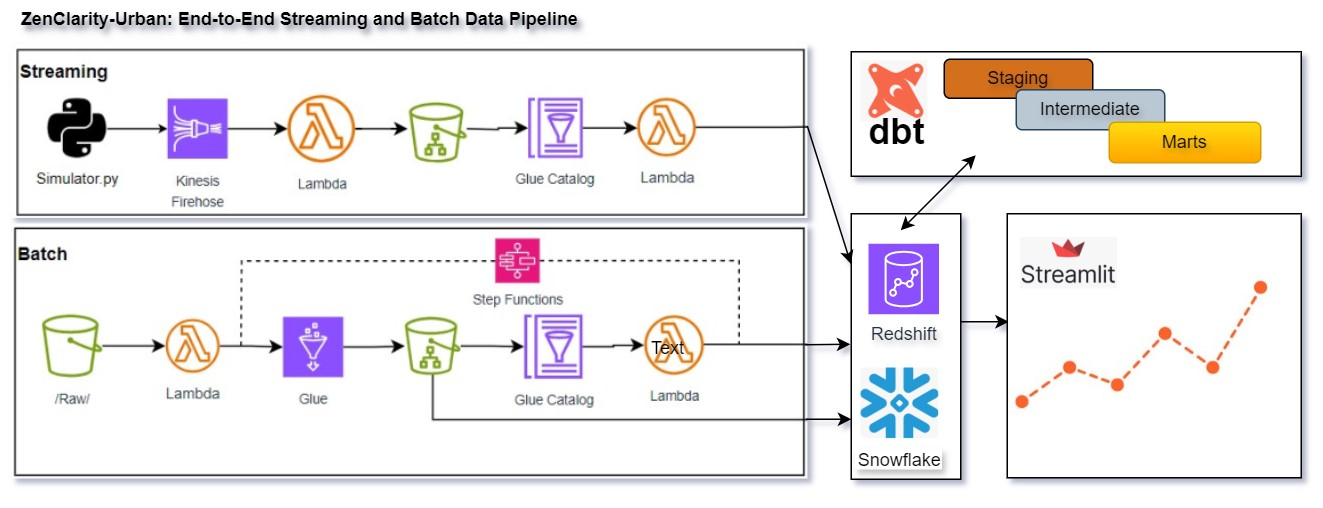
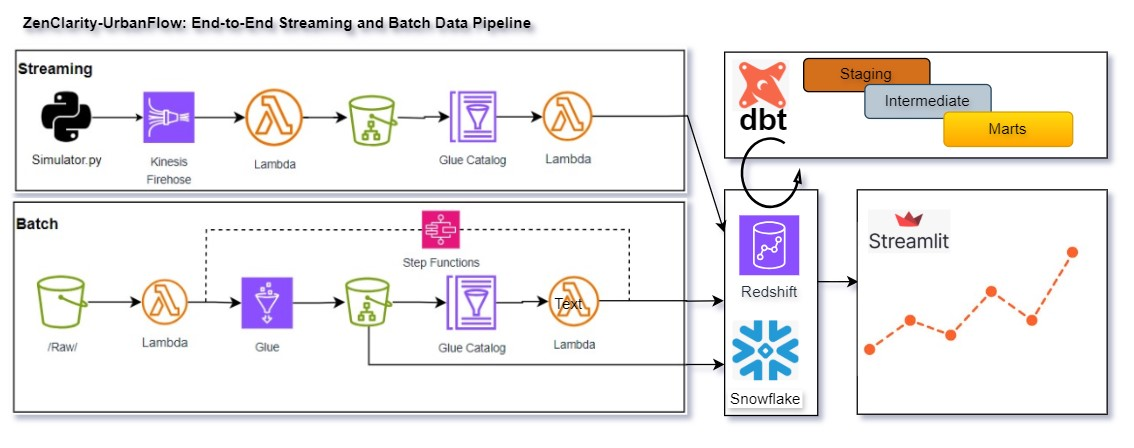
Update README.md with project details and benchmarking info

Changed region(s): [[0.0, 0.0, 0.9877, 0.9688]]

diff --git a/README.md b/README.md
@@ -1,13 +1,13 @@
 # 🌆 ZenClarity-UrbanFlow — NYC Taxi Data Engineering Project
 
-**ZenClarity-UrbanFlow reflects my approach to data engineering: clarity, scalability, and modern cloud practices.**  
-Built with AWS, dbt, Redshift, and Snowflake, it showcases both batch and streaming pipelines, automated orchestration, and a real-time analytics dashboard.
+**A modern, cloud-native data engineering platform that ingests NYC Taxi data via streaming and batch pipelines, transforms it with dbt, and delivers analytics in Redshift, Snowflake, and Streamlit.**  
+ZenClarity-UrbanFlow demonstrates best practices in clarity, scalability, and modern cloud data engineering. It highlights near real-time ingestion, reproducible transformations, and cross-engine benchmarking to evaluate performance and cost-efficiency across **data warehouse engines**.
 
-- 🚖 **Pipelines**: Real-time streaming (Kinesis) + batch ingestion (Glue)  
-- 📦 **Warehousing**: Redshift Serverless & Snowflake  
-- 📊 **Modeling**: dbt (staging → intermediate → marts)  
-- ⚡ **Benchmarks**: Redshift vs Snowflake performance  
-- 📈 **Visualization**: Streamlit dashboard (screenshots included)  
+- 🚖 **Pipelines**: Real-time streaming via Kinesis + scheduled batch ingestion with AWS Glue  
+- 🗄 **Data Warehousing Engines**: Redshift Serverless and Snowflake, supporting analytics and benchmarking  
+- 📊 **Modeling**: dbt with layered structure (staging → intermediate → marts)  
+- ⚡ **Benchmarks**: Comparative performance tests across Redshift and Snowflake  
+- 📈 **Visualization**: Streamlit dashboard delivering KPIs and real-time vs. baseline insights  
 
 ---
 
@@ -37,10 +37,10 @@ Built with AWS, dbt, Redshift, and Snowflake, it showcases both batch and stream
 ## 📂 Repo Structure 
 
 ZenClarity-UrbanFlow/  
-├── analytics/          # notebooks + Streamlit app (screenshots archived)  
+├── analytics/          # QuickSight & Streamlit app (screenshots archived)  
 ├── config/             # sample env/config snippets  
 ├── dbt/                # dbt models (staging → intermediate → marts)  
-├── docs/               # diagrams, metrics, planning notes  
+├── docs/               # diagrams, metrics, WBS planning notes  
 ├── infrastructure/     # EMR, Glue, Redshift, Snowflake configs  
 ├── scripts/            # ETL code (batch, streaming, emr_jobs, helpers)  
 └── venv/               # local virtualenv (ignored in git)  
@@ -49,12 +49,13 @@ ZenClarity-UrbanFlow/
 
 ## 📈 Data Models & dbt
 
-This project follows a **multi-layered dbt modeling pattern**:
+This project follows a **multi-layered dbt modeling pattern**, a best practice for building analytics code that is both maintainable and scalable. This approach ensures data quality, consistency, and reusability across the entire pipeline.
+
 - **Staging**: cleans raw data, enforces schema.  
 - **Intermediate**: joins + transformations for readability/efficiency.  
 - **Marts**: business-defined entities for analytics (facts & dims).  
 
-📑 **Documentation & lineage**:  
+📑 **Documentation & lineage**:  The entire dbt project is documented and includes a full lineage graph, showcasing the flow of data from source to dashboard
 [View dbt Project Documentation (S3 Hosted)](http://nle-dbt-docs.s3-website-us-east-1.amazonaws.com/#!/overview)
 
 ---
@@ -74,7 +75,7 @@ Results highlight performance trade-offs between Redshift and Snowflake under eq
 
 ## 📈 Dashboard KPIs (Streamlit)
 
-* Trip count  
+* Trips count  
 * Total fare revenue  
 * Average trip delay  
 * Passengers carried  
@@ -122,4 +123,3 @@ dbt • Snowflake • Python • Streamlit
 
 - LinkedIn: [le-nguyen-v](https://www.linkedin.com/in/le-nguyen-v/)  
 - GitHub: [tropily](https://github.com/tropily/Zen_Clarity)
-
